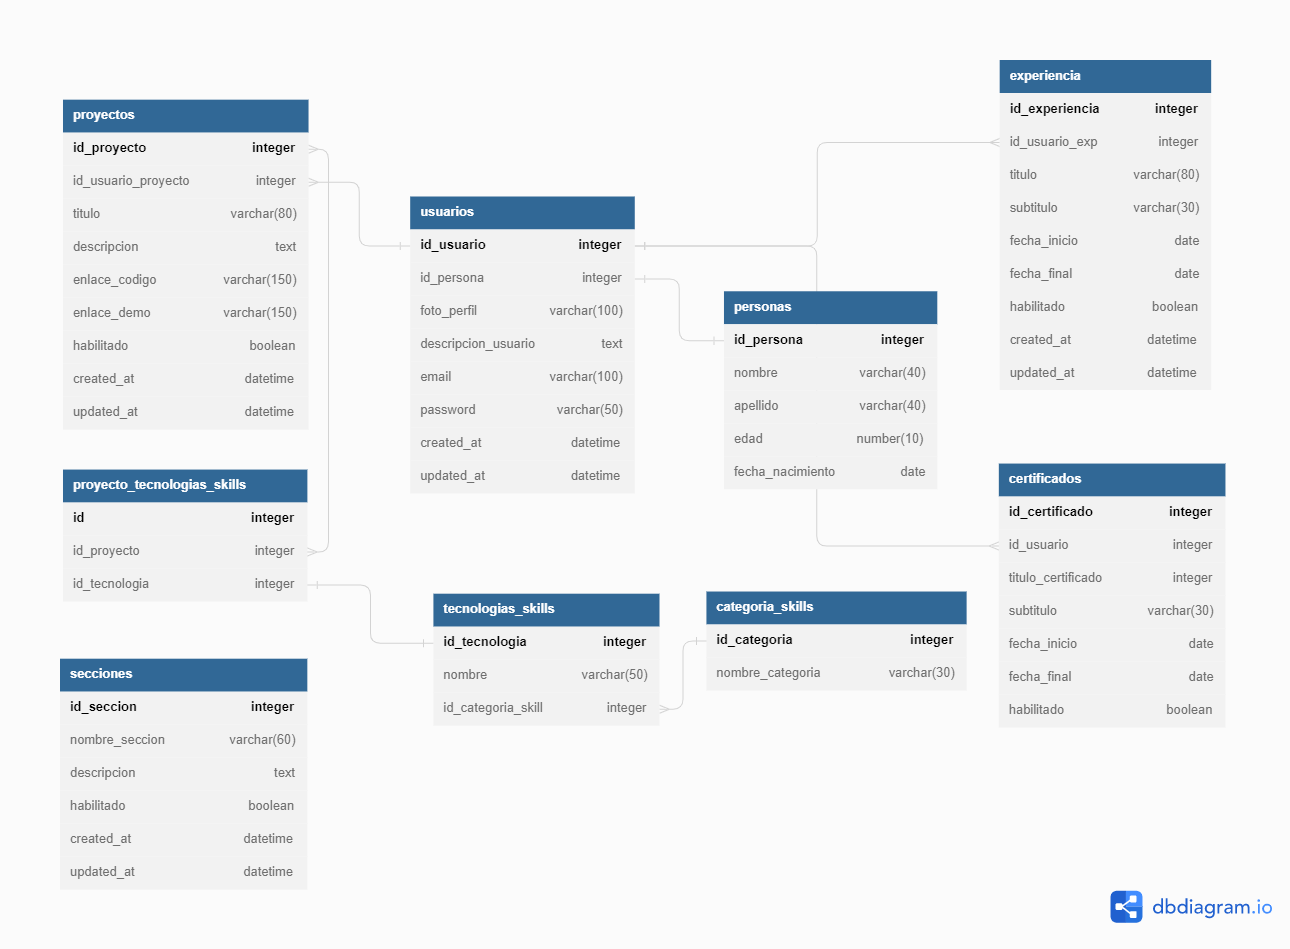
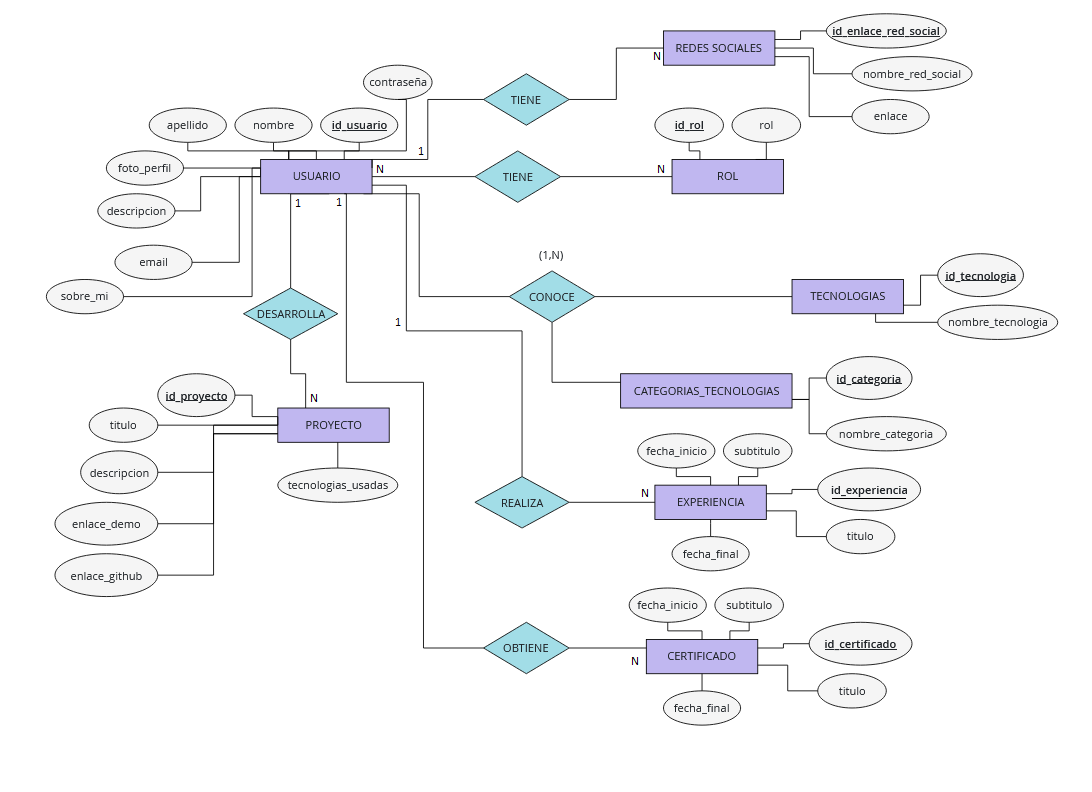
Cambios en imagen tarea modulo 4

diff --git a/README.md b/README.md
@@ -3,4 +3,6 @@
 Repositorio con el contenido de la parte de Backend del proyecto de Argentina Programa.
 
 ### Diagrama de tablas
+Tarea Módulo 4  
+
 ![Diagrama de Tablas](tarea4.png)
